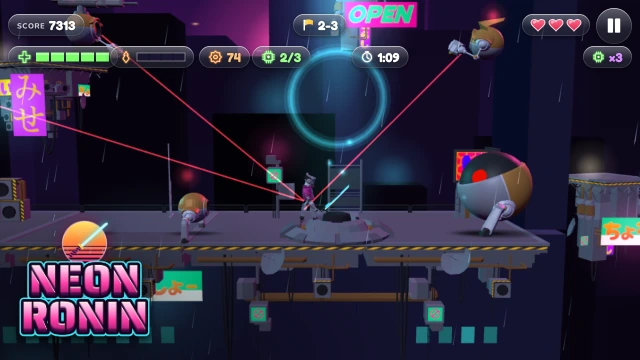
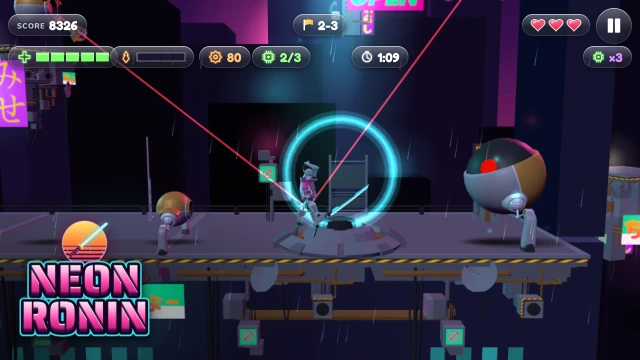
Neon Ronin: boss bar on every boss fight, a readable hero
The boss bar follows the sim (shown as soon as the boss engages, also
after the test hooks jump ahead; hidden in other levels). The hero is
18% larger with a cyan neon rim, the camera a little closer, and the
boss, brutes and turrets stand behind the play line so the hero is
always drawn in front of them. Catalog cards regenerated.

Claude-Session: https://claude.ai/code/session_0175vXZr811A8hQZq6oHnsLr

diff --git a/games/neon-ronin/view.ts b/games/neon-ronin/view.ts
@@ -23,7 +23,11 @@ import { ATTACKS, FOE_SCALE, MOVE, type FoeKind } from './defs';
 import { hazardBox, mulberry, type Sim, type SimEvent, type Foe, type Shot, type Pickup, type Prop, type Hazard, type Faller, type Gate } from './sim';
 
 const CHUNK = 24;
-const CAM_Z = 14.5;
+const CAM_Z = 12.4;
+/** The hero a little larger than the kit's figure, so it reads next to the big robots. */
+const HERO_SCALE = 1.18;
+/** Big foes stand a little behind the play line (the hero always in front of them). */
+const FOE_Z: Partial<Record<FoeKind, number>> = { boss: -1.7, brute: -0.8, turret: -0.3, cannon: -0.3, double: -0.3 };
 const FOV = 36;
 export function dimHex(c: number, k: number): number { return (Math.round(((c >> 16) & 255) * k) << 16) | (Math.round(((c >> 8) & 255) * k) << 8) | Math.round((c & 255) * k); }
 export const NEON = { cyan: 0x3ff0ff, magenta: 0xff3fa8, yellow: 0xffe040, red: 0xff3344, orange: 0xff9a3c, lime: 0x7cff6a, violet: 0xa98bff, white: 0xffffff };
@@ -130,7 +134,8 @@ export class View {
       w.scene.add(s);
       this.slashes.push(s);
     }
-    this.hero = new Figure('hero', 1, this.mats);
+    this.hero = new Figure('hero', HERO_SCALE, this.mats);
+    this.hero.rim(0x3ff0ff, 0.9);
     this.hero.show(['body', 'sword']);
     this.heroShadow = this.blob(1.1);
     this.chargeRing = glowQuad(this.tex.ring, NEON.cyan, 2.2, 2.2);
@@ -569,7 +574,7 @@ export class View {
 
   private syncHero(sim: Sim, dt: number, rdt: number): void {
     const p = sim.p, f = this.hero;
-    f.root.position.set(p.x, p.y, 0);
+    f.root.position.set(p.x, p.y, 0.35);
     const want = p.face > 0 ? Math.PI / 2 : -Math.PI / 2;
     f.root.rotation.y += (want - f.root.rotation.y) * Math.min(1, rdt * 22);
     const shooting = p.shootT > 0 && p.state !== 'attack' && p.state !== 'roll' && p.state !== 'dead';
@@ -639,7 +644,7 @@ export class View {
       if (far) continue;
       const sc = FOE_SCALE[f.kind];
       if (f.spawned && v.obj.scale.x < 1 && f.state !== 'dead') v.obj.scale.setScalar(Math.min(1, v.obj.scale.x + rdt * 2.5));
-      v.obj.position.set(f.x, f.y, 0);
+      v.obj.position.set(f.x, f.y, FOE_Z[f.kind] ?? 0);
       if (v.fig) {
         const want = f.face > 0 ? Math.PI / 2 : -Math.PI / 2;
         v.obj.rotation.y += (want - v.obj.rotation.y) * Math.min(1, rdt * 10);
@@ -957,7 +962,7 @@ export class View {
       sx = (Math.random() - 0.5) * a;
       sy = (Math.random() - 0.5) * a;
     }
-    const z = CAM_Z * this.zoom * (sim.L.boss ? 1.25 : 1);
+    const z = CAM_Z * this.zoom * (sim.L.boss ? 1.14 : 1);
     cam.position.set(this.camX + sx, this.camY + 2.6 + sy, z);
     cam.lookAt(this.camX + sx * 0.5, this.camY + 1.25 + sy * 0.5, 0);
     this.sky.position.set(this.camX, this.camY + 36, -170);

diff --git a/games/neon-ronin/figure.ts b/games/neon-ronin/figure.ts
@@ -75,6 +75,24 @@ export class Figure {
   }
 
   private flashK = 0.32;
+  /**
+   * A neon rim: a fresnel glow on the figure's edges in `color`, so it reads against busy scenes
+   * and big foes (added to its own material's shader; the program is cached by the key).
+   */
+  rim(color: number, strength: number): void {
+    const m = this.flashMat;
+    const c = new THREE.Color(color);
+    m.onBeforeCompile = (sh) => {
+      sh.uniforms.rimColor = { value: c.multiplyScalar(strength) };
+      sh.fragmentShader = 'uniform vec3 rimColor;\n' + sh.fragmentShader.replace(
+        '#include <emissivemap_fragment>',
+        '#include <emissivemap_fragment>\n  totalEmissiveRadiance += rimColor * pow(1.0 - saturate(dot(normal, normalize(vViewPosition))), 2.2);',
+      );
+    };
+    m.customProgramCacheKey = () => 'nr-rim';
+    m.needsUpdate = true;
+  }
+
   flash(t = 0.1, k = 0.32): void { this.flashT = t; this.flashK = k; }
   setGlow(c: number): void { this.glow.setHex(c); }
 

diff --git a/games/neon-ronin/PlayScene.ts b/games/neon-ronin/PlayScene.ts
@@ -213,6 +213,9 @@ export class PlayScene extends ArcadeScene {
     const combo = s.combo >= 2 && this.hudOn;
     if (combo !== this.comboChip.visible) this.comboChip.setVisible(combo);
     if (combo) this.comboChip.setText('×' + s.combo);
+    // the boss bar from the moment the boss engages (also after a jump ahead in the test hooks)
+    if (s.boss && s.bossOn && !this.bossBar.active) this.bossBar.show(t('lv_' + s.L.id));
+    if ((!s.boss || !s.bossOn) && this.bossBar.active) this.bossBar.hide();
     if (s.boss && s.bossOn) this.bossBar.set(s.boss.hp, s.boss.maxHp, s.boss.state === 'vent', this.game.loop.delta / 1000);
     if (this.pad) this.pad.charge = p.state === 'charge' ? p.charge : 0;
   }

diff --git a/games/neon-ronin/hud.ts b/games/neon-ronin/hud.ts
@@ -190,6 +190,8 @@ export class BossBar {
     this.name.setVisible(false);
   }
 
+  get active(): boolean { return this.chip.visible; }
+
   show(name: string): void {
     this.chip.setVisible(true);
     this.name.setTexture(labelTexture(this.scene, upper(name), BOSS_LABEL)).setVisible(true);
